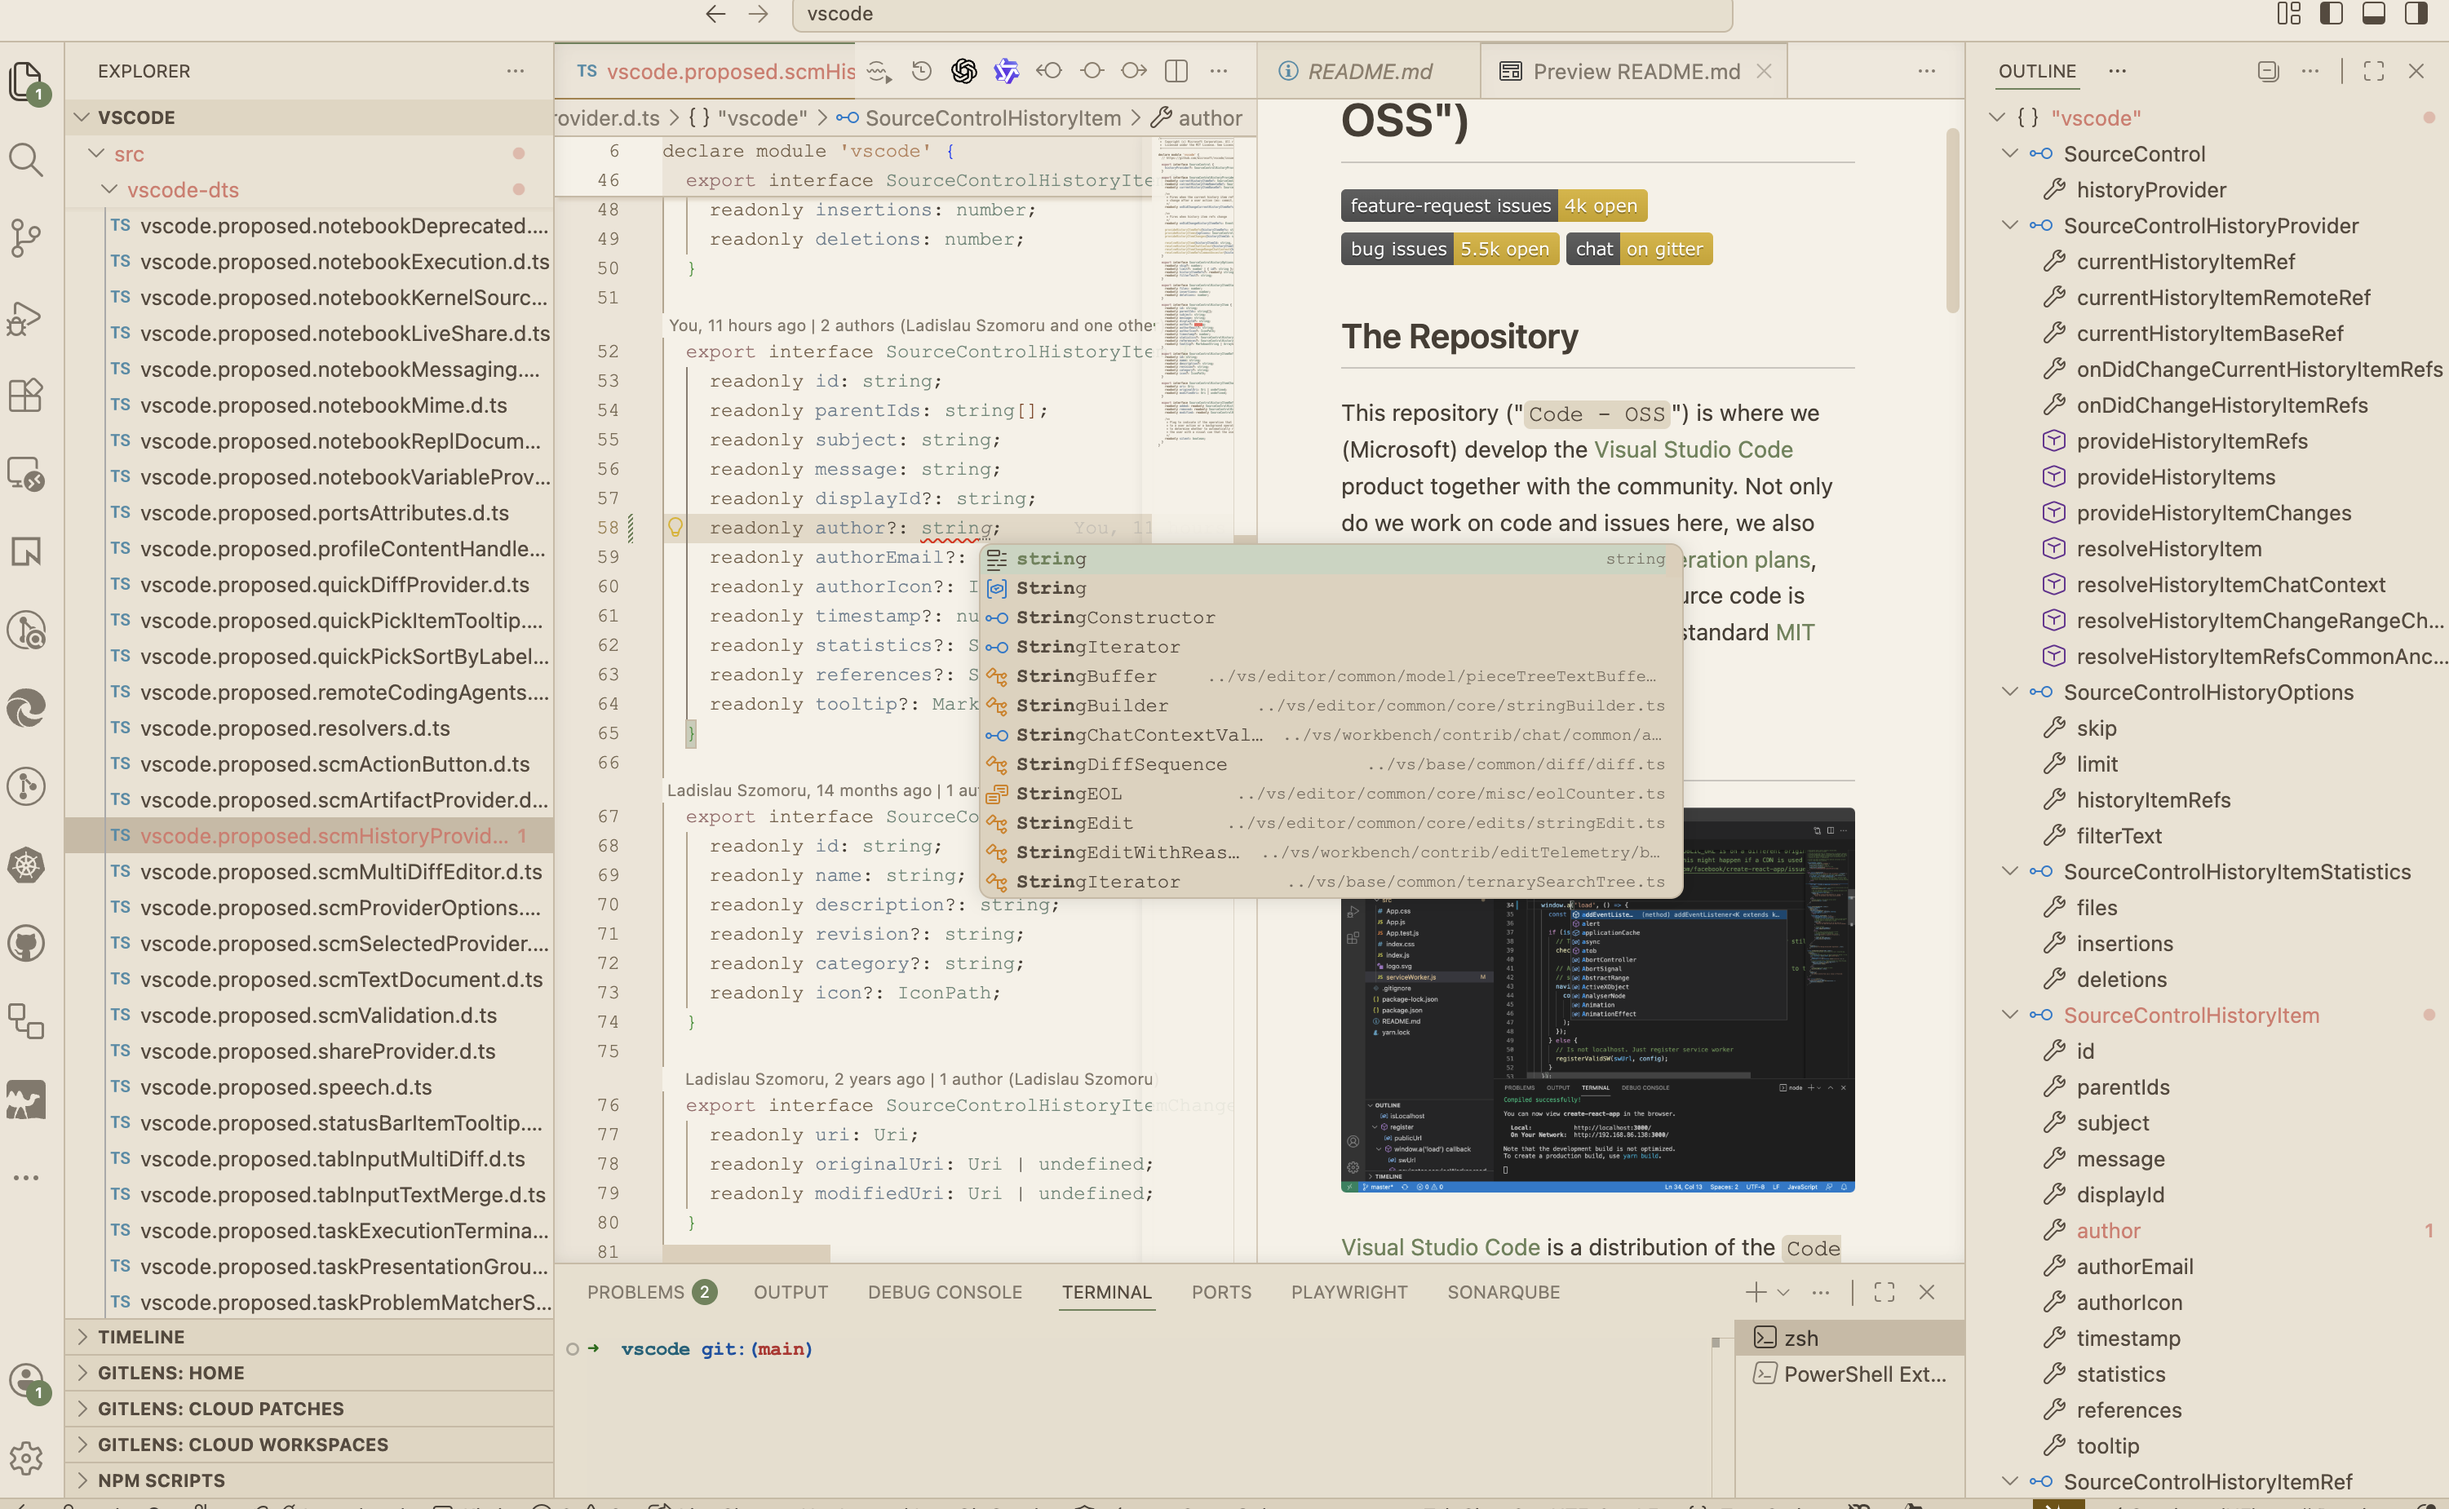
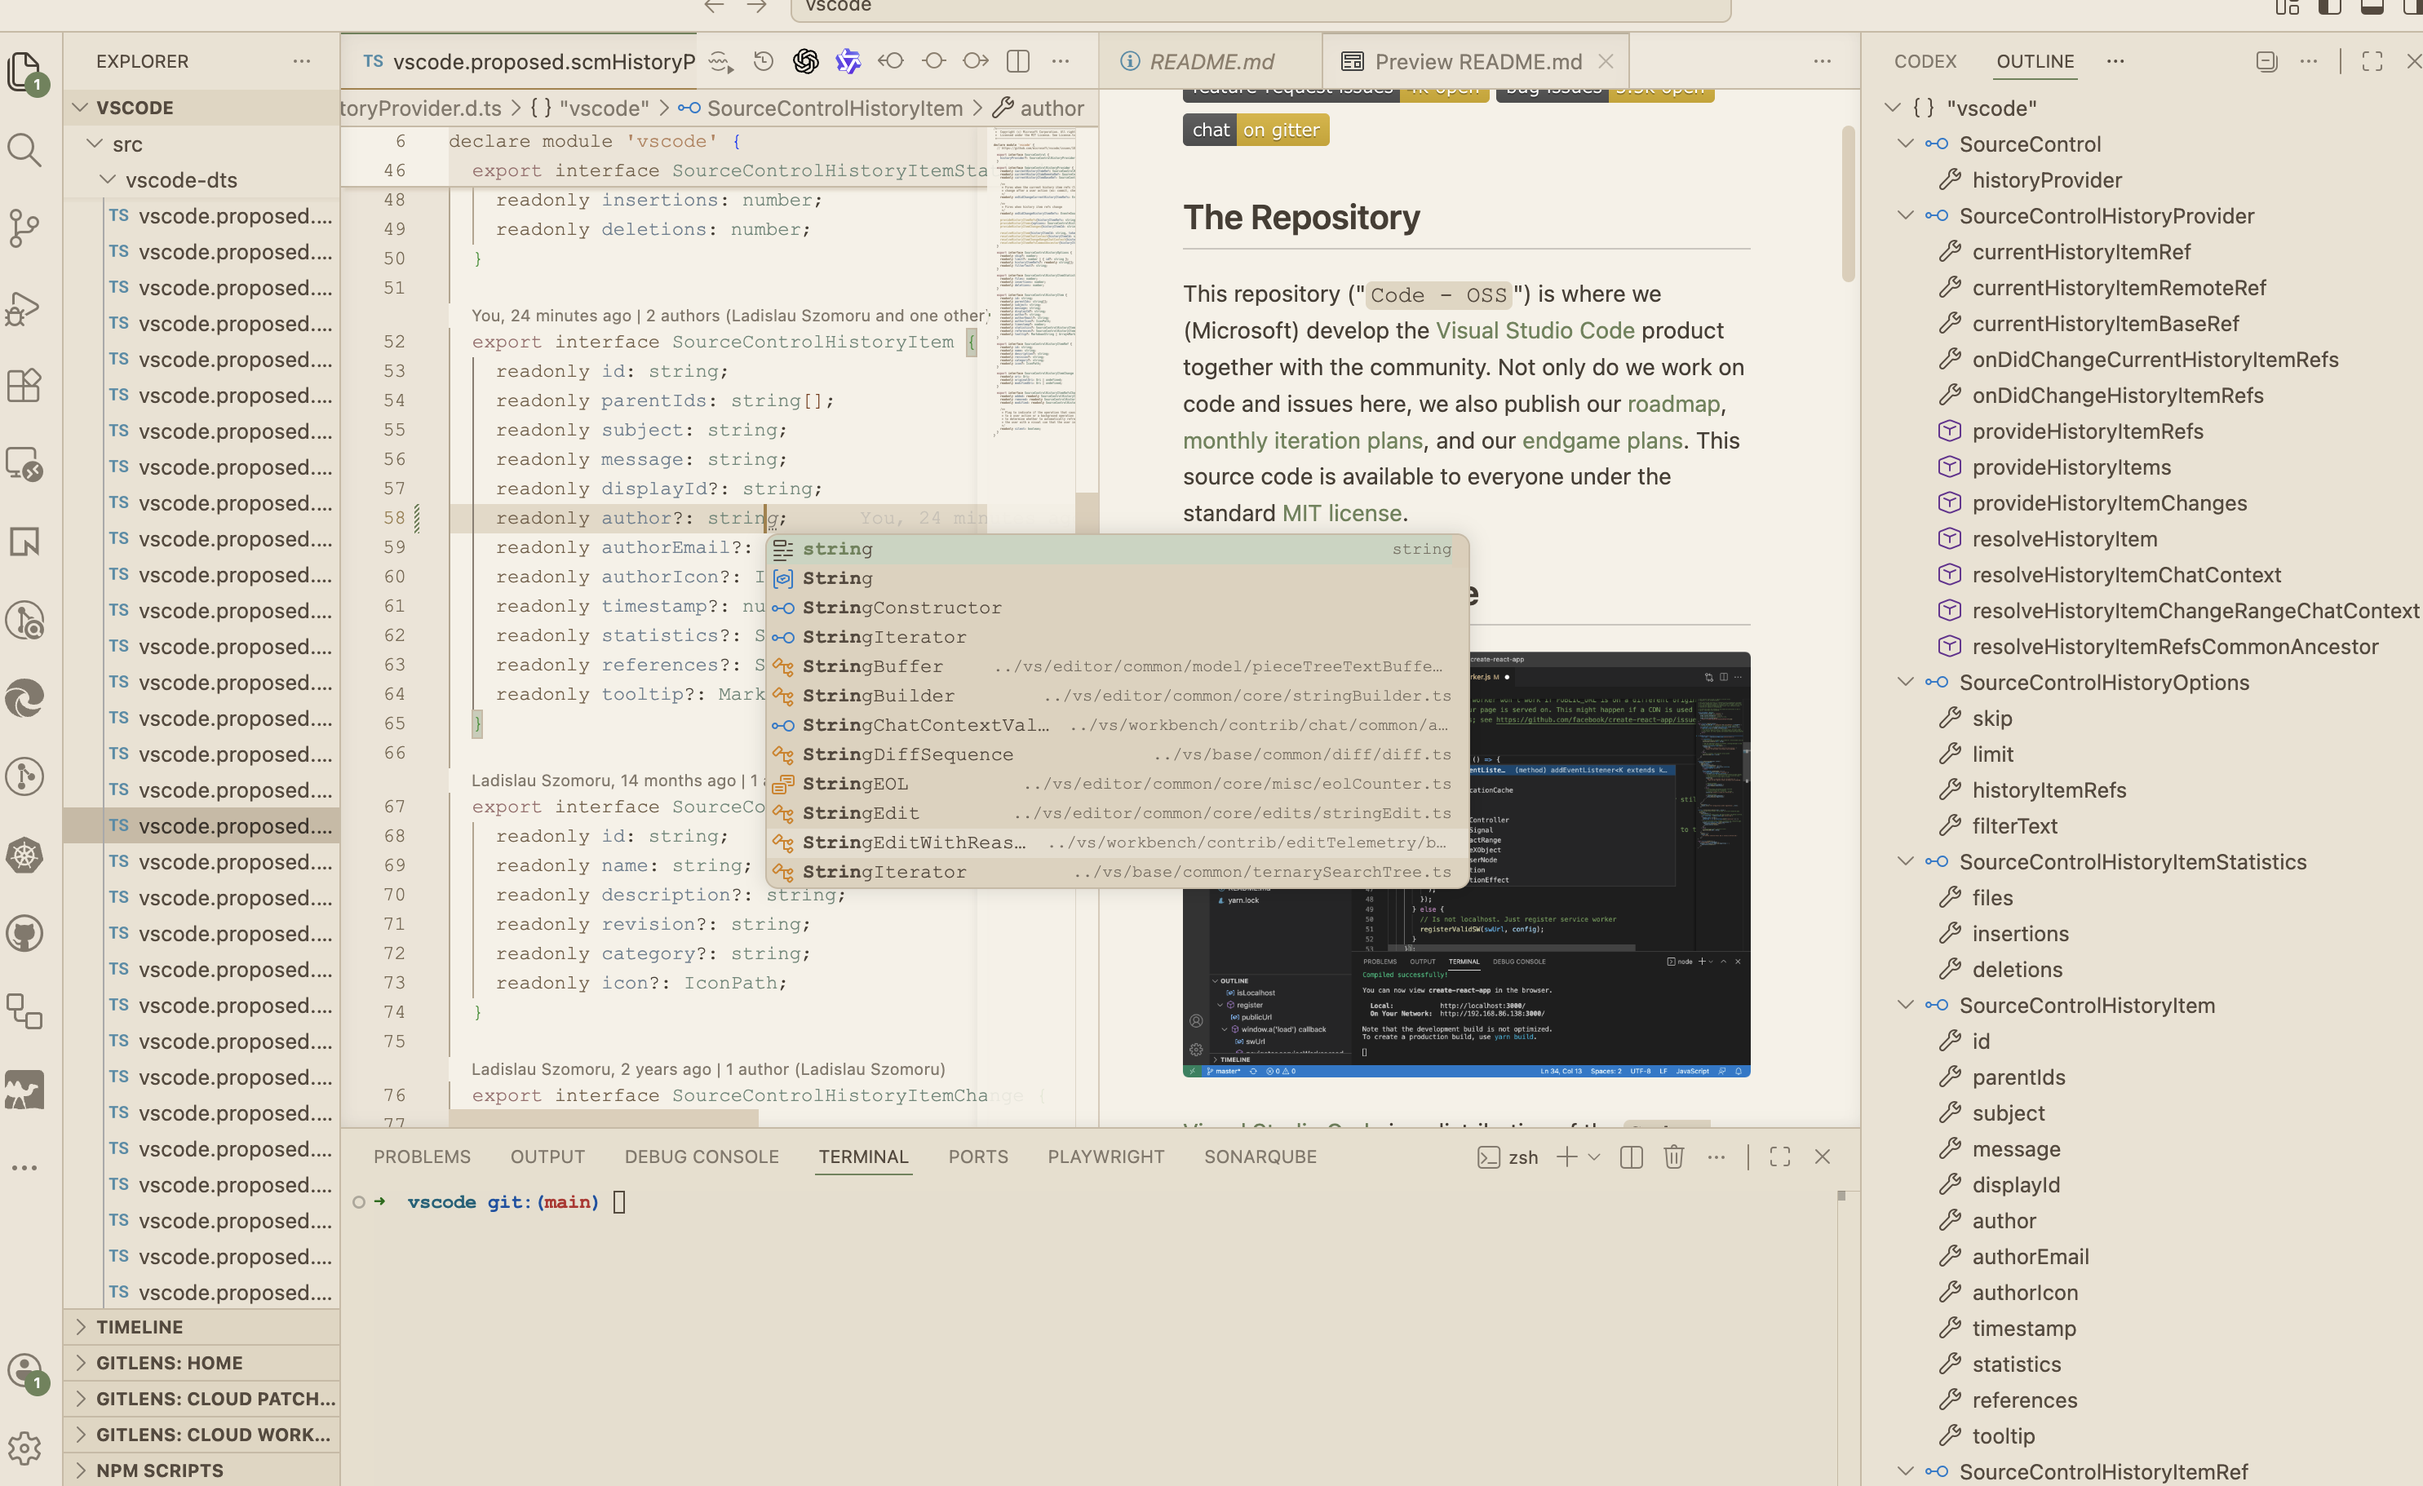
chore: release 1.0.7

diff --git a/README.md b/README.md
@@ -1,7 +1,7 @@
-<h1 align="center">Streber Dark Theme</h1>
+<h1 align="center">Danube Streber Theme Ecosystem</h1>
 
 <p align="center">
-  <em>Three coordinated editor moods in one extension: Danube greens for focus, smoked gold for warmth, and a refined light variant for daytime work.</em>
+  <em>An adaptive visual environment engineered for cognitive endurance and zero-distraction deep work.</em>
 </p>
 
 <p align="center">
@@ -10,76 +10,47 @@
   <a href="https://marketplace.visualstudio.com/items?itemName=streber-theme.streber-dark-theme"><img src="https://img.shields.io/visual-studio-marketplace/r/streber-theme.streber-dark-theme?style=flat-square&color=b8a57a" alt="Ratings"></a>
 </p>
 
-Streber Dark Theme is a VS Code theme collection inspired by the Danube streber fish. It gives you three coordinated variants built for long sessions, deliberate contrast, and clear semantic separation across the editor, sidebar, panels, terminal, and diffs.
+---
 
-## Included Themes
+## 🐟 The Streber Philosophy
 
-- `Streber Dark` for deep green backgrounds, restrained blue-gray syntax, and amber accents
-- `Streber Smoked Gold` for olive-brown surfaces, brass highlights, and honey-gold syntax warmth
-- `Streber Light` for pale mineral backgrounds, sage accents, and cleaner daytime contrast
+Most modern IDE themes fail by attempting to maximize contrast, bombarding the retina with neon colors that inevitably lead to visual and cognitive fatigue during complex, multi-hour debugging sessions.
 
-## Theme Previews
+We invert the problem: **How do we build a resilient visual ecosystem that actively reduces parsing effort?**
 
-### Streber Dark
+Taking inspiration from the _Zingel streber_—a highly resilient benthic fish native to the Danube River that thrives in deep, fast-flowing currents by maintaining a low profile—this collection is built for extreme visual endurance. By utilizing camouflage palettes, desaturated syntax, and precise highlights, the Streber ecosystem anchors your focus and keeps the editor strictly analytical.
 
-![Streber Dark preview](./screenshots/danube-streber-theme.png)
+## 🎛 Three Adaptive Environments
 
-### Streber Smoked Gold
+Because external lighting conditions and retinal fatigue fluctuate, a single theme is a single point of failure. The Streber extension provides three coordinated environments to ensure continuous operability.
 
-![Streber Smoked Gold preview](./screenshots/streber-smoked-gold.png)
+### 1. Streber Dark (The Deep Anchor)
 
-### Streber Light
+Built for absolute focus. Deep camouflage greens, restrained blue-gray syntax, and sharp amber accents for structural clarity.
+[![Streber Dark preview](./screenshots/danube-streber-theme.png)](./screenshots/danube-streber-theme.png)
 
-![Streber Light preview](./screenshots/streber-light.png)
+### 2. Streber Smoked Gold (The Late-Night Buffer)
 
-## Why Use It
+Engineered for hours when blue light becomes toxic. Olive-brown surfaces, brass highlights, and honey-gold syntax warmth to mitigate eye strain.
+[![Streber Smoked Gold preview](./screenshots/streber-smoked-gold.png)](./screenshots/streber-smoked-gold.png)
 
-- Three coordinated moods without switching extensions
-- Semantic highlighting enabled for modern language servers
-- Strong separation between keywords, types, functions, strings, and comments
-- Low-glare surfaces tuned for long coding sessions
-- Balanced workbench colors across explorer, tabs, menus, terminal, and diffs
-- Cleaner Markdown and inline-code rendering in the light variant
+### 3. Streber Light (The Daylight Albedo)
 
-## Best Fit
+Designed for high-glare daytime environments. Pale mineral backgrounds, sage accents, and strict contrast that prevents the text from washing out on bright screens.
+[![Streber Light preview](./screenshots/streber-light.png)](./screenshots/streber-light.png)
 
-The collection has been tuned for everyday work in:
+---
 
-- JavaScript and TypeScript
-- Python
-- Rust
-- Markdown
-- JSON, YAML, shell, and general config files
+## 📐 Structural Advantages
 
-## Palette Direction
+- **Semantic Rigor:** Strict, logical separation between keywords, types, functions, strings, and comments.
+- **State Resilience:** Carefully tuned workbench colors ensure UI elements (explorer, tabs, terminal, diffs) remain legible without overpowering the code canvas.
+- **Broad Spectrum Efficacy:** Calibrated primarily for `JavaScript/TypeScript`, `Python`, `Rust`, and essential configuration formats (`JSON`, `YAML`, `Shell`).
 
-| Theme | Background | Accent | Character |
-| --- | --- | --- | --- |
-| `Streber Dark` | `#0d110d` | `#5a8f6a` | Cool, focused, camouflage green |
-| `Streber Smoked Gold` | `#14110d` | `#ba934e` | Warm, smoky, brass-toned |
-| `Streber Light` | `#faf6ef` | `#5a6e4a` | Daylight, mineral, sage-and-sand |
+## 🚀 Installation
 
-## Install
-
-From VS Code Quick Open:
+From VS Code Quick Open (`Ctrl+P` / `Cmd+P`):
 
 ```bash
 ext install streber-theme.streber-dark-theme
 ```
-
-From the command line:
-
-```bash
-code --install-extension streber-theme.streber-dark-theme
-```
-
-## Activate
-
-1. Open `Preferences: Color Theme`
-2. Select `Streber Dark`, `Streber Smoked Gold`, or `Streber Light`
-
-## Support
-
-- Marketplace: https://marketplace.visualstudio.com/items?itemName=streber-theme.streber-dark-theme
-- Repository: https://github.com/Louis-Ph/danube-streber-theme
-- Issues: https://github.com/Louis-Ph/danube-streber-theme/issues

diff --git a/CHANGELOG.md b/CHANGELOG.md
@@ -11,6 +11,13 @@ and this project adheres to [Semantic Versioning](https://semver.org/spec/v2.0.0
 - Add more language-specific color optimizations
 - Add GitHub and Marketplace metadata after the public release workflow exists
 
+## [1.0.7] - 2026-03-28
+
+### Changed
+- Repositioned the Marketplace README with stronger product messaging around the Streber theme ecosystem
+- Refreshed the `Streber Light` preview image used in the public listing
+- Updated the extension summary in `package.json` to match the new Marketplace framing
+
 ## [1.0.6] - 2026-03-28
 
 ### Changed
@@ -102,6 +109,7 @@ and this project adheres to [Semantic Versioning](https://semver.org/spec/v2.0.0
 
 | Version | Date       | Notes                    |
 |---------|------------|--------------------------|
+| 1.0.7   | 2026-03-28 | Refreshed Marketplace marketing and light preview |
 | 1.0.6   | 2026-03-28 | Refined Streber Light palette and refreshed release docs |
 | 1.0.5   | 2026-03-28 | Polished Streber Light Markdown preview rendering |
 | 1.0.4   | 2026-03-28 | Added Streber Light and refreshed documentation |
